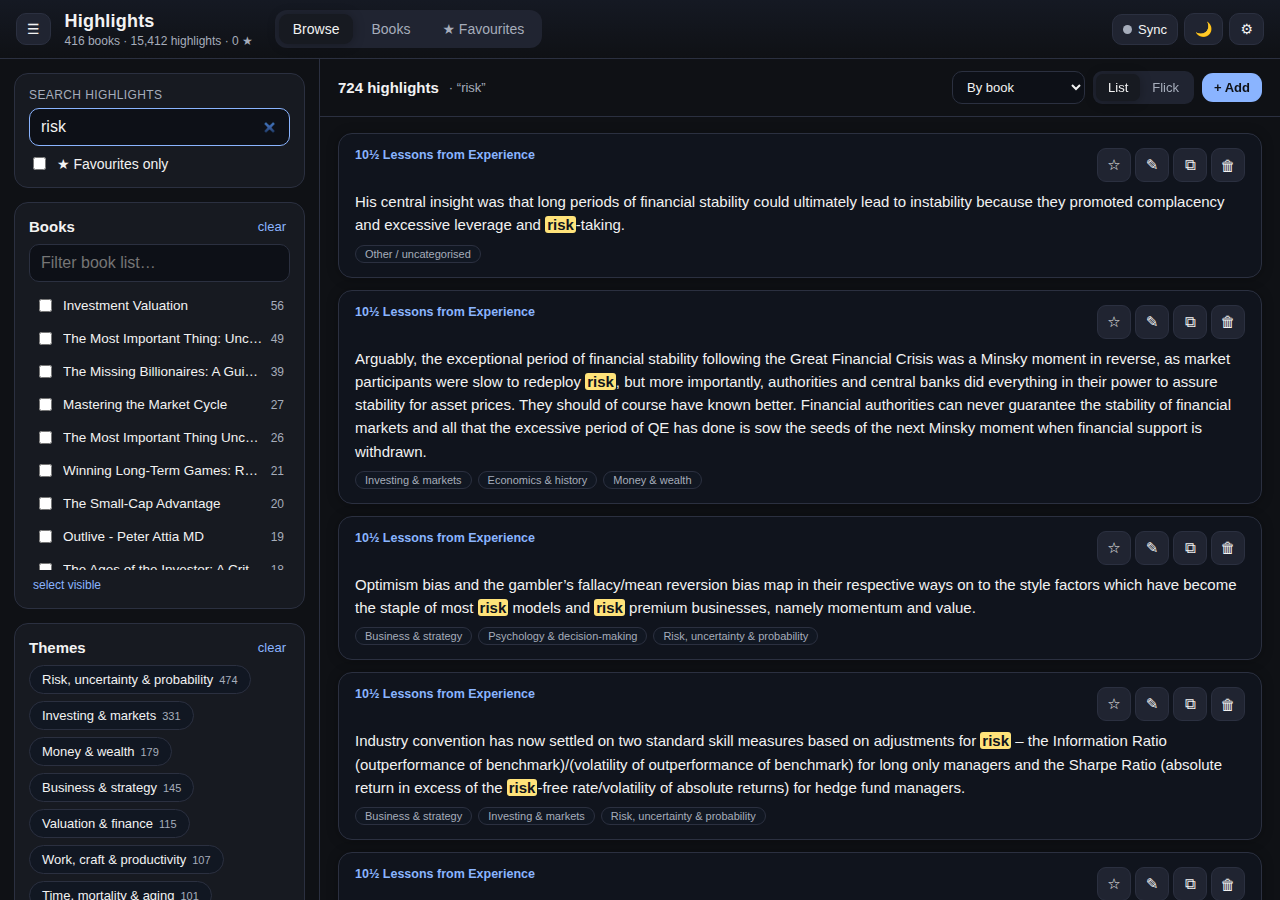
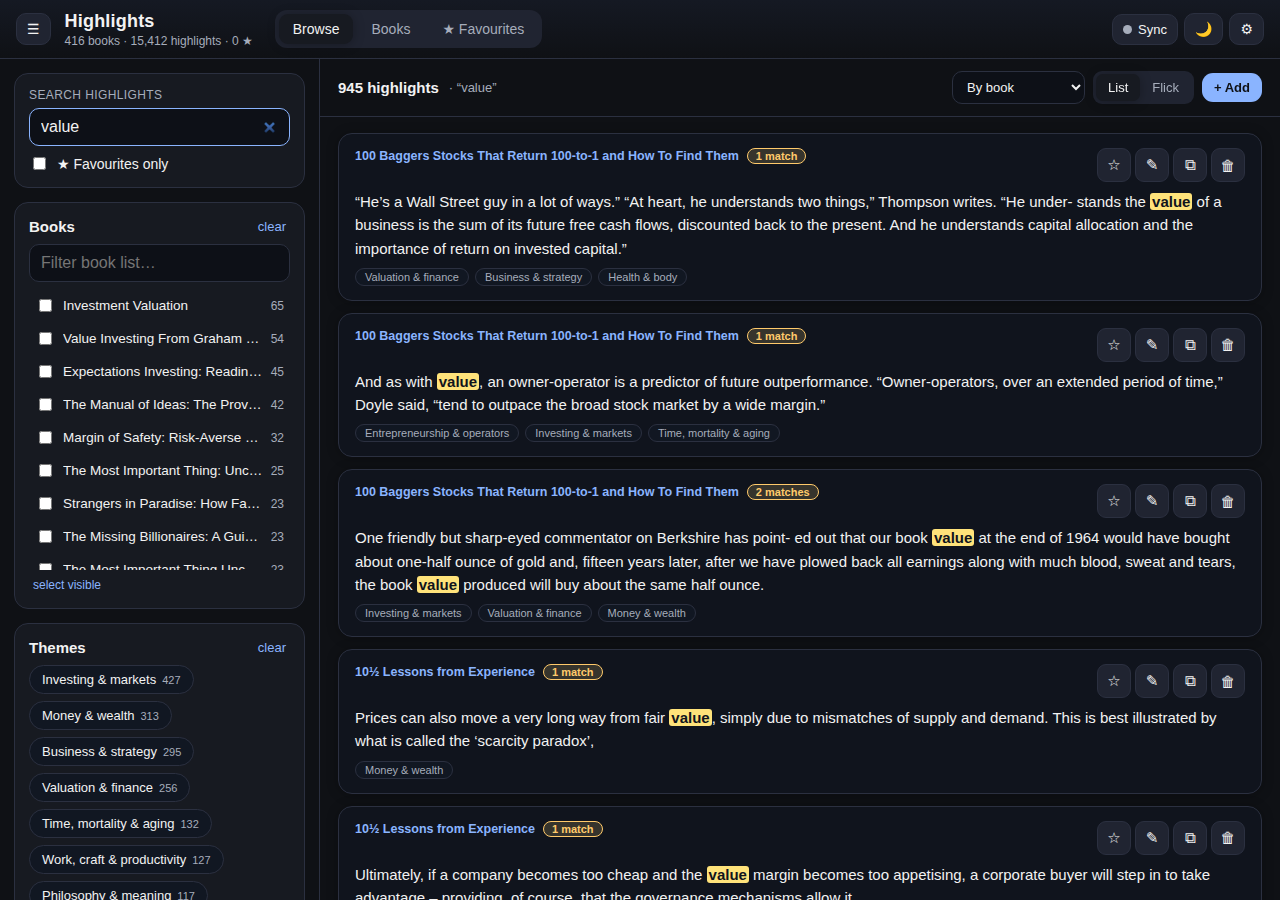
Extend search UI: highlight book titles, per-card match badges, clearer sync errors
- Book titles now show matched terms in yellow (list + flick)
- Each result shows a gold 'N matches' badge when searching
- sync.js: detect /dev URLs, surface auth/CORS/timeout causes clearly,
  bump timeout to 30s

Claude-Session: https://claude.ai/code/session_01LEd9kDLBSSAc9ozxWn23Ue

diff --git a/js/app.js b/js/app.js
@@ -21,6 +21,17 @@ function markHtml(text) {
   if (!pat.length) return esc;
   return esc.replace(new RegExp('(' + pat.join('|') + ')', 'gi'), '<mark>$1</mark>');
 }
+function countMatches(...texts) {
+  const terms = searchTerms();
+  if (!terms.length) return 0;
+  let n = 0;
+  for (const text of texts) {
+    const low = (text || '').toLowerCase();
+    for (const t of terms) { const tl = t.toLowerCase(); if (!tl) continue; let i = 0; while ((i = low.indexOf(tl, i)) !== -1) { n++; i += tl.length; } }
+  }
+  return n;
+}
+function matchBadge(n) { return n ? `<span class="match-badge">${n} match${n > 1 ? 'es' : ''}</span>` : ''; }
 
 // ---------- filter + view state ----------
 const F = { books: new Set(), themes: new Set(), search: '', favOnly: false, sort: 'book' };
@@ -164,8 +175,15 @@ function hlCard(h) {
   const b = store.book(h.b) || { title: 'Unknown', author: '' };
   const card = el('div', 'hl-card' + (store.isFav(h.id) ? ' fav' : ''));
   const top = el('div', 'hl-top');
-  const bk = el('span', 'hl-book', b.title);
+  const left = el('div', 'hl-top-left');
+  const bk = el('span', 'hl-book');
+  bk.innerHTML = markHtml(b.title);
   bk.addEventListener('click', () => focusBook(h.b));
+  left.append(bk);
+  if (searchTerms().length) {
+    const n = countMatches(h.t, b.title);
+    if (n) { const badge = el('span'); badge.innerHTML = matchBadge(n); left.append(badge.firstChild); }
+  }
   const acts = el('div', 'hl-actions');
   acts.append(
     actionBtn(store.isFav(h.id) ? '★' : '☆', 'Favourite', store.isFav(h.id), e => { const on = store.toggleFav(h.id); e.target.textContent = on ? '★' : '☆'; e.target.classList.toggle('on', on); card.classList.toggle('fav', on); }),
@@ -173,7 +191,7 @@ function hlCard(h) {
     actionBtn('⧉', 'Copy', false, () => copyHl(h, b)),
     actionBtn('🗑', 'Delete', false, () => { if (confirm('Delete this highlight? It will be hidden on all your devices (reversible from the Sheet).')) store.toggleDelete(h.id); }, 'danger'),
   );
-  top.append(bk, acts);
+  top.append(left, acts);
   const txt = el('div', 'hl-text');
   txt.innerHTML = markHtml(h.t);
   card.append(top, txt);
@@ -208,9 +226,15 @@ function renderFlick() {
   const b = store.book(h.b) || { title: 'Unknown' };
   const card = $('#flickCard');
   card.classList.toggle('fav', store.isFav(h.id));
-  $('#flickBook').textContent = b.title;
+  $('#flickBook').innerHTML = markHtml(b.title);
   $('#flickBook').onclick = () => focusBook(h.b);
-  $('#flickThemes').textContent = (h.th || []).map(t => (store.theme(t) || {}).name).filter(Boolean).join(' · ');
+  const themesTxt = (h.th || []).map(t => (store.theme(t) || {}).name).filter(Boolean).join(' · ');
+  let metaHtml = escapeHtml(themesTxt);
+  if (searchTerms().length) {
+    const n = countMatches(h.t, b.title);
+    if (n) metaHtml = (themesTxt ? metaHtml + ' · ' : '') + matchBadge(n);
+  }
+  $('#flickThemes').innerHTML = metaHtml;
   $('#flickText').innerHTML = markHtml(h.t);
   const nt = store.note(h.id);
   const nEl = $('#flickNote');

diff --git a/js/sync.js b/js/sync.js
@@ -20,8 +20,9 @@ export function configure(url, token) {
 }
 export function disconnect() { cfg = { url: '', token: '' }; save(); }
 
-async function call(payload, { timeout = 20000 } = {}) {
+async function call(payload, { timeout = 30000 } = {}) {
   if (!isConfigured()) throw new Error('not configured');
+  if (/\/dev(\?|$)/.test(cfg.url)) throw new Error("that's the /dev URL — use the /exec deployment URL instead");
   const ctrl = new AbortController();
   const timer = setTimeout(() => ctrl.abort(), timeout);
   try {
@@ -36,9 +37,19 @@ async function call(payload, { timeout = 20000 } = {}) {
     const text = await res.text();
     let data;
     try { data = JSON.parse(text); }
-    catch { throw new Error('Bad response from script (is the URL the /exec deployment?)'); }
+    catch {
+      // Apps Script served HTML (a login/permission page) instead of JSON
+      if (/<html|sign in|accounts\.google|need permission/i.test(text)) {
+        throw new Error("the script isn't public — set the deployment's access to “Anyone” (not “Anyone with Google account”) and redeploy");
+      }
+      throw new Error('Bad response from script (is the URL the /exec deployment?)');
+    }
     if (!data.ok) throw new Error(data.error || 'script error');
     return data;
+  } catch (e) {
+    if (e && e.name === 'AbortError') throw new Error('timed out — no response. Open the /exec URL in a browser tab: if it shows a Google login page, set the deployment access to “Anyone” and redeploy');
+    if (e instanceof TypeError) throw new Error('network/CORS blocked — check the URL ends in /exec and the deployment access is “Anyone”');
+    throw e;
   } finally { clearTimeout(timer); }
 }
 

diff --git a/app.css b/app.css
@@ -104,6 +104,8 @@ input:focus,textarea:focus,select:focus{border-color:var(--accent)}
 .hl-card{background:var(--card);border:1px solid var(--border);border-radius:14px;padding:14px 16px;box-shadow:var(--shadow)}
 .hl-card.fav{border-color:var(--gold)}
 .hl-top{display:flex;justify-content:space-between;gap:12px;margin-bottom:8px;align-items:flex-start}
+.hl-top-left{display:flex;align-items:center;gap:8px;min-width:0;flex-wrap:wrap}
+.match-badge{font-size:11px;background:rgba(255,227,122,.16);color:var(--gold);border:1px solid var(--gold);border-radius:20px;padding:1px 8px;font-weight:600;white-space:nowrap}
 .hl-book{font-size:12.5px;color:var(--accent);font-weight:600;cursor:pointer}
 .hl-book:hover{text-decoration:underline}
 .hl-actions{display:flex;gap:4px;flex:0 0 auto}